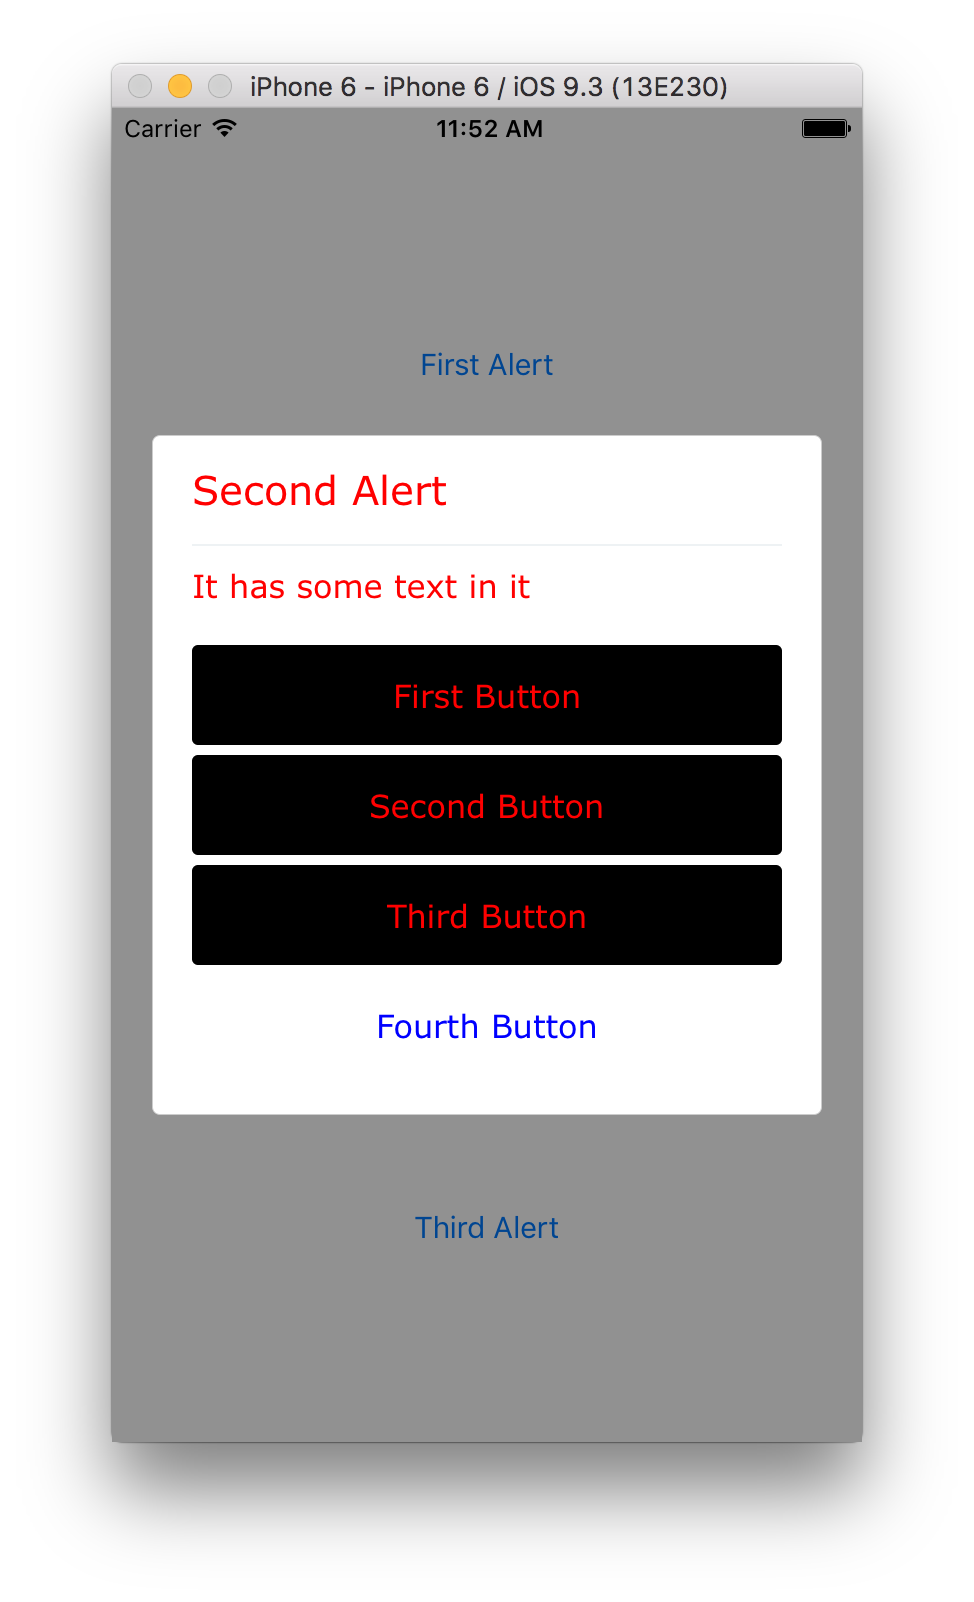
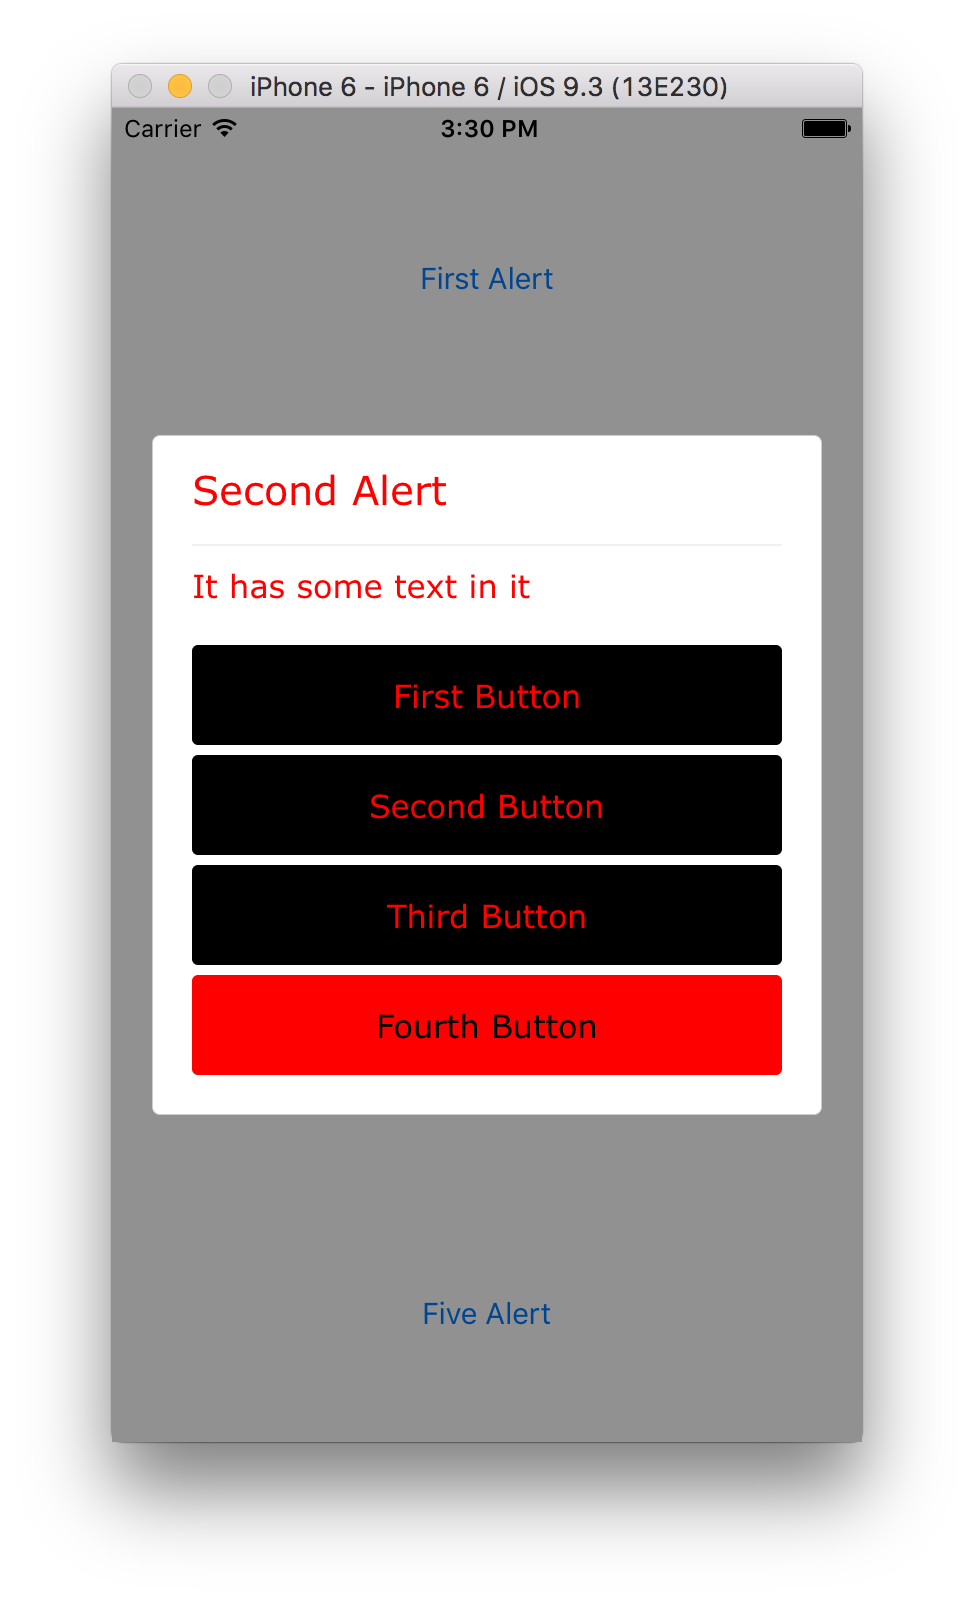
Animation method is now public, so it can be override

diff --git a/NAlertView/ViewController.swift b/NAlertView/ViewController.swift
@@ -54,9 +54,9 @@ class ViewController: UIViewController {
         NAlertView.showAlertInQueue(title: "Alert with completion block",
                                     message: "Some text here",
                                     buttons: [
-                                        AlertButton.init(title: "First button", type: .Default),
+                                        AlertButton.init(title: "First Button", type: .Default),
                                         AlertButton.init(title: "Second Button", type: .Default),
-                                        AlertButton.init(type: .Cancel)]) { (btnPressed) in
+                                        AlertButton.init(title: "Third Button", type: .Cancel)]) { (btnPressed) in
                                             switch btnPressed {
                                             case 0:
                                                 print("first button tapped")
@@ -68,6 +68,17 @@ class ViewController: UIViewController {
                                                 break
                                             }
         }
+    }
+    
+    @IBAction func showFiveAlert(sender: AnyObject) {
+        applyAlertTheme5()
+        
+        NAlertView.showAlertInQueue(title: nil,
+                                    message: "Some text here",
+                                    buttons: [
+                                        AlertButton.init(title: "First Button", type: .Default),
+                                        AlertButton.init(title: "Second Button", type: .Default),
+                                        AlertButton.init(title: "Third Button", type: .Cancel)])
     }
     
     func applyAlertTheme1() {
@@ -104,25 +115,25 @@ class ViewController: UIViewController {
         NAlertView.buttonDefaultBGColor    = UIColor.blackColor()
         NAlertView.buttonAcceptTitleColor  = UIColor.redColor()
         NAlertView.buttonAcceptBGColor     = UIColor.blackColor()
-        NAlertView.buttonCancelTitleColor  = UIColor.blueColor()
-        NAlertView.buttonCancelBGColor     = UIColor.clearColor()
+        NAlertView.buttonCancelTitleColor  = UIColor.blackColor()
+        NAlertView.buttonCancelBGColor     = UIColor.redColor()
     }
     
     func applyAlertTheme3() {
         NAlertView.titleFont               = UIFont.init(name: "Verdana", size: 20)!
-        NAlertView.titleColor              = UIColor.redColor()
+        NAlertView.titleColor              = UIColor.blackColor()
         NAlertView.titleAlign              = NSTextAlignment.Right
         NAlertView.messageFont             = UIFont.init(name: "Verdana", size: 16)!
-        NAlertView.messageColor            = UIColor.redColor()
+        NAlertView.messageColor            = UIColor.blackColor()
         NAlertView.messageAlign            = NSTextAlignment.Right
         NAlertView.buttonCornerRadius      = 3
         NAlertView.buttonFont              = UIFont.init(name: "Verdana", size: 16)!
-        NAlertView.buttonDefaultTitleColor = UIColor.redColor()
-        NAlertView.buttonDefaultBGColor    = UIColor.blackColor()
-        NAlertView.buttonAcceptTitleColor  = UIColor.redColor()
-        NAlertView.buttonAcceptBGColor     = UIColor.blackColor()
+        NAlertView.buttonDefaultTitleColor = UIColor.blueColor()
+        NAlertView.buttonDefaultBGColor    = UIColor.yellowColor()
+        NAlertView.buttonAcceptTitleColor  = UIColor.blueColor()
+        NAlertView.buttonAcceptBGColor     = UIColor.yellowColor()
         NAlertView.buttonCancelTitleColor  = UIColor.blueColor()
-        NAlertView.buttonCancelBGColor     = UIColor.clearColor()
+        NAlertView.buttonCancelBGColor     = UIColor.yellowColor()
     }
     
     func applyAlertTheme4() {
@@ -140,6 +151,23 @@ class ViewController: UIViewController {
         NAlertView.buttonAcceptBGColor     = UIColor.blueColor()
         NAlertView.buttonCancelTitleColor  = UIColor.whiteColor()
         NAlertView.buttonCancelBGColor     = UIColor.blueColor()
+    }
+    
+    func applyAlertTheme5() {
+        NAlertView.titleFont               = UIFont.init(name: "Verdana", size: 20)!
+        NAlertView.titleColor              = UIColor.blackColor()
+        NAlertView.titleAlign              = NSTextAlignment.Center
+        NAlertView.messageFont             = UIFont.init(name: "Verdana", size: 16)!
+        NAlertView.messageColor            = UIColor.blackColor()
+        NAlertView.messageAlign            = NSTextAlignment.Center
+        NAlertView.buttonCornerRadius      = 25
+        NAlertView.buttonFont              = UIFont.init(name: "Verdana", size: 16)!
+        NAlertView.buttonDefaultTitleColor = UIColor.blackColor()
+        NAlertView.buttonDefaultBGColor    = UIColor.greenColor()
+        NAlertView.buttonAcceptTitleColor  = UIColor.blackColor()
+        NAlertView.buttonAcceptBGColor     = UIColor.greenColor()
+        NAlertView.buttonCancelTitleColor  = UIColor.blackColor()
+        NAlertView.buttonCancelBGColor     = UIColor.greenColor()
     }
 }
 

diff --git a/NAlertView/NAlertView.swift b/NAlertView/NAlertView.swift
@@ -347,7 +347,9 @@ public class NAlertView: UIViewController, UIGestureRecognizerDelegate {
         }
         
     }
-    private func animateAlert() {
+    
+    /// Override this method to customize the animation of showing the alert view
+    public func animateAlert() {
         
         view.alpha = 0
         UIView.animateWithDuration(0.2, animations: { () -> Void in

diff --git a/README.md b/README.md
@@ -5,7 +5,7 @@ It is inspired by the [CPAlertViewController](https://github.com/cp3hnu/CPAlertV
 
 ## Examples
 
-![](Screenshots/01.png) ![](Screenshots/02.png) ![](Screenshots/03.png)
+![](Screenshots/01.png =100x) ![](Screenshots/02.png =100x) ![](Screenshots/03.png =100x) ![](Screenshots/04.png =100x) ![](Screenshots/05.png =100x)
 
 ## Installation
 
@@ -89,6 +89,8 @@ NAlertView.showAlertInQueue(title: "Alert with completion block",
                                 }
 }
 ```
+
+The alert view will appear with a (very) fancy `pop` animation, if you seek to implement you own animation you can do so by overriding the `animateAlert()` method.
 
 ### Customizable properties
 	Here there is the list of all the properties than can be customized.
